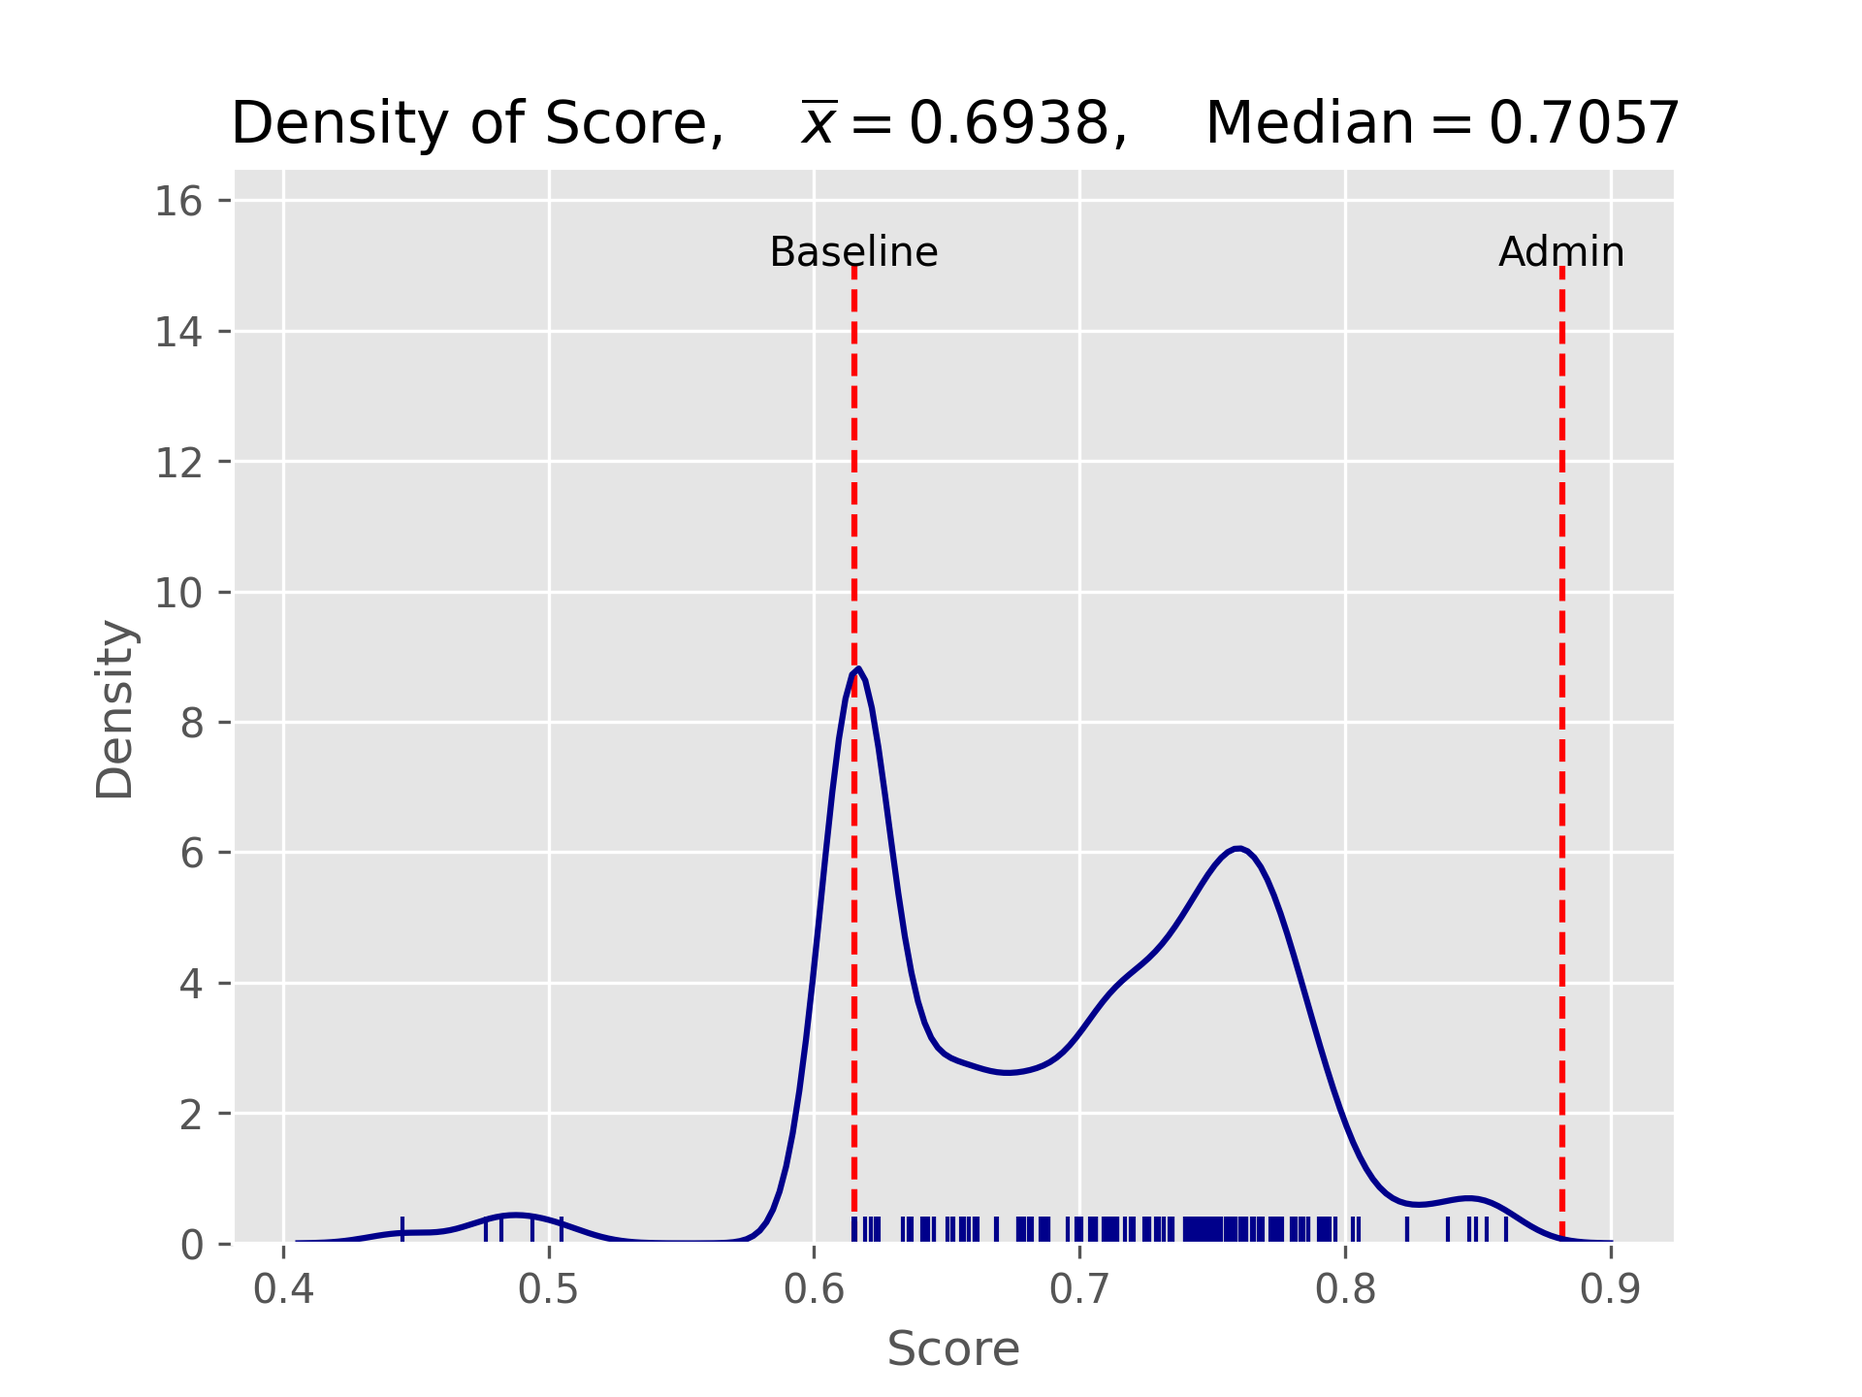
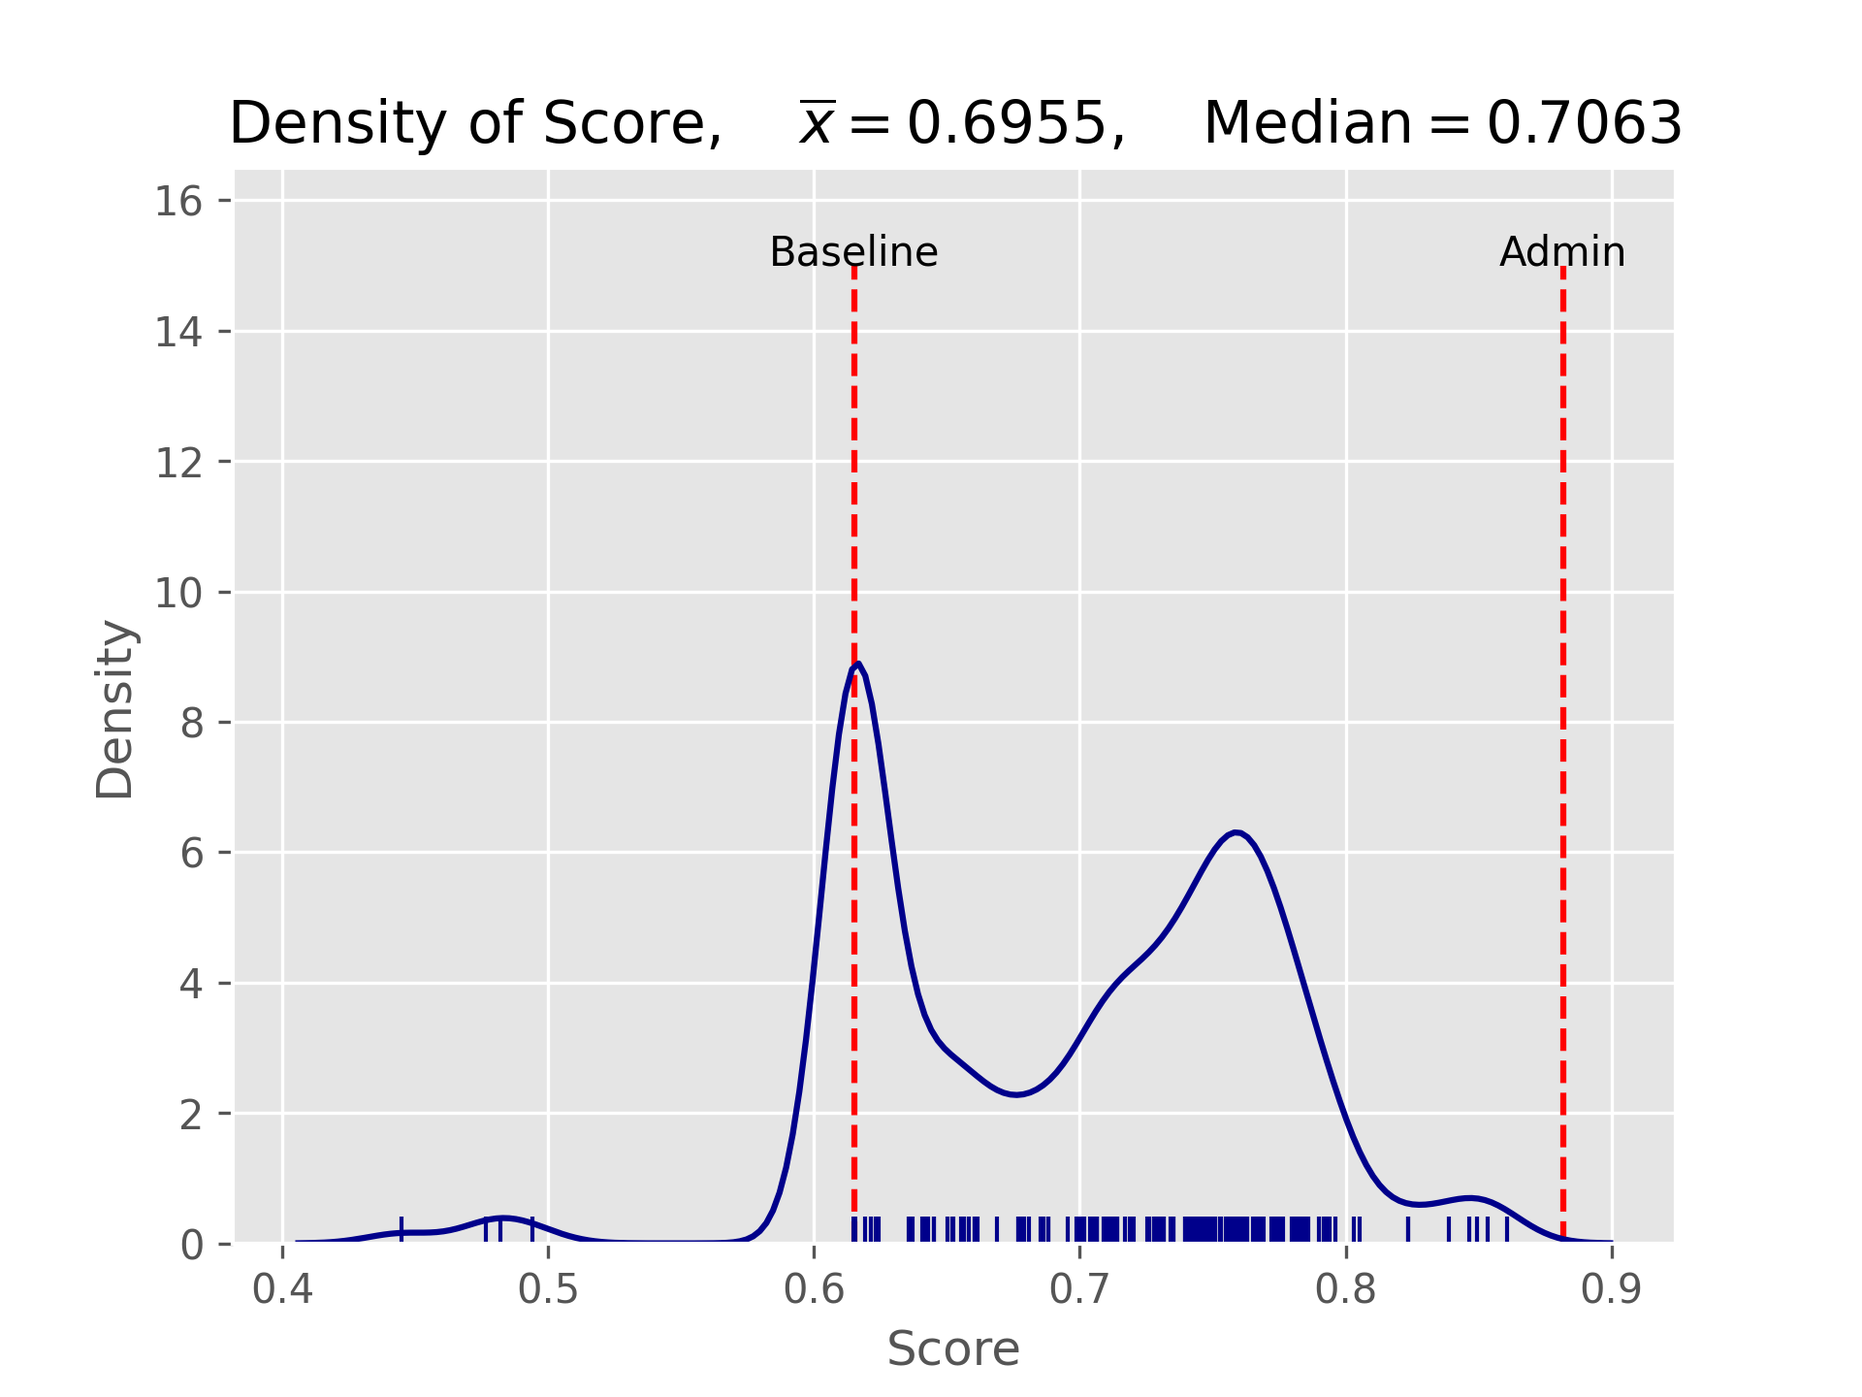
Updated: 2021-05-17 20:33:54

diff --git a/README.md b/README.md
@@ -1,6 +1,6 @@
 # ETC3250 Kaggle score
 
-**Last updated: May 17, 2021 18:21:19**
+**Last updated: May 17, 2021 20:33:54**
 
 ## WARNING: Your final grade is based on your score on the `private leaderboard`. 
 
@@ -22,7 +22,7 @@ Number of teams: 206
 |---|---|---|---|---|---|
 |1|6759412|Davide Signor|17 May 12:40:27|0.86078|13|
 |2|6749482|dzho37|16 May 23:11:41|0.85342|13|
-|3|6754507|Not Admin|17 May 16:18:54|0.84946|13|
+|3|6754507|Not Admin|17 May 19:46:10|0.84946|13|
 |4|6765261|Real Admin @zyan0056|17 May 17:37:52|0.84663|13|
 |5|6767591|carljohnsonCJ|16 May 19:46:00|0.83870|13|
 |6|6754716|efre0004|17 May 02:39:44|0.82342|13|
@@ -34,27 +34,27 @@ Number of teams: 206
 |12|6764575|jngu0046|17 May 17:28:19|0.79286|12|
 |13|6761625|Le-Hao Jian|16 May 22:16:10|0.79230|12|
 |14|6763983|Jpan0029|16 May 22:28:56|0.79173|12|
-|15|6755904|wtan0062|16 May 15:36:18|0.79003|12|
-|16|6750238|zzd|17 May 09:08:14|0.78607|12|
+|15|6750238|zzd|17 May 19:07:22|0.79173|12|
+|16|6755904|wtan0062|17 May 18:36:00|0.79003|12|
 |17|6768738|iamnotaduck|11 May 23:10:49|0.78607|12|
 |18|6760087|ssha0141|14 May 23:54:49|0.78438|12|
 |19|6749317|[Deleted] fcf8662d-9cae-4735-a131-9968aeda505a|09 May 10:43:07|0.78324|12|
-|20|6751555|jwah0003|16 May 21:15:29|0.78155|12|
-|21|6754465|vvoo0004|16 May 10:14:08|0.78098|12|
-|22|6763495|Yongkang Ni|16 May 13:59:43|0.77985|12|
-|23|6749357|pdai0002|17 May 15:18:52|0.77645|12|
-|24|6749592|igup0001|17 May 10:20:27|0.77589|12|
-|25|6776729|Admin3|16 May 13:04:21|0.77532|12|
-|26|6754050|Filippo Gioffre|17 May 12:32:23|0.77475|12|
-|27|6765501|iren0002|16 May 22:37:10|0.77475|12|
-|28|6766607|vietvo51|17 May 02:31:39|0.77419|12|
-|29|6753795|ttra0038|13 May 14:13:17|0.77419|12|
-|30|6767628|Bo Zhang 3520|17 May 00:28:42|0.77362|12|
-|31|6751314|cwei0018|16 May 22:07:49|0.77306|12|
+|20|6751314|cwei0018|17 May 18:31:50|0.78211|12|
+|21|6751555|jwah0003|16 May 21:15:29|0.78155|12|
+|22|6754465|vvoo0004|16 May 10:14:08|0.78098|12|
+|23|6763495|Yongkang Ni|16 May 13:59:43|0.77985|12|
+|24|6749357|pdai0002|17 May 15:18:52|0.77645|12|
+|25|6749592|igup0001|17 May 10:20:27|0.77589|12|
+|26|6776729|Admin3|17 May 19:48:21|0.77532|12|
+|27|6754050|Filippo Gioffre|17 May 12:32:23|0.77475|12|
+|28|6765501|iren0002|16 May 22:37:10|0.77475|12|
+|29|6766607|vietvo51|17 May 02:31:39|0.77419|12|
+|30|6753795|ttra0038|13 May 14:13:17|0.77419|12|
+|31|6767628|Bo Zhang 3520|17 May 00:28:42|0.77362|12|
 |32|6764289|Thomas Pranoto|17 May 01:21:29|0.77192|12|
 |33|6763202|dngu0066|17 May 10:25:46|0.76910|12|
 |34|6759022|claw0008|17 May 17:22:07|0.76853|11|
-|35|6766956|sbat0011|17 May 18:07:31|0.76796|11|
+|35|6766956|sbat0011|17 May 18:36:27|0.76796|11|
 |36|6754493|Po-Yu Huang|16 May 13:21:24|0.76796|11|
 |37|6764152|Pei Ni Lim|16 May 16:26:18|0.76740|11|
 |38|6759088|skhu0008|17 May 15:25:08|0.76740|11|
@@ -69,86 +69,86 @@ Number of teams: 206
 |47|6768276|Alex Chou|17 May 15:34:23|0.76061|11|
 |48|6755448|jwan0296|16 May 18:52:06|0.76061|11|
 |49|6759326|Emily Sheehan|17 May 13:32:11|0.76061|11|
-|50|6749366|xwan0160|16 May 23:33:43|0.75891|11|
-|51|6751334|yzha0275|17 May 12:19:36|0.75834|11|
-|52|6750247|Kevin Tat17|17 May 16:27:17|0.75721|11|
-|53|6749412|Monchy|17 May 13:30:49|0.75721|11|
-|54|6754693|xwan0169|14 May 09:20:24|0.75664|11|
-|55|6758694|nhee0002|16 May 20:21:14|0.75495|11|
-|56|6768666|jham0020|16 May 23:44:06|0.75325|11|
-|57|6750103|heva0001|17 May 16:42:32|0.75268|11|
-|58|6754314|Alexi Tsakis|17 May 13:59:33|0.75099|11|
-|59|6764345|yliu0320|16 May 19:42:52|0.75099|11|
-|60|6750774|yhua0047|15 May 15:45:06|0.74985|11|
-|61|6759731|Daniel Ong|17 May 03:07:00|0.74985|11|
-|62|6758777|Gayani Amali Balasuriya|17 May 12:29:32|0.74872|11|
-|63|6754556|sami0006|16 May 16:22:20|0.74759|11|
-|64|6750485|Zhongxuan Yin|13 May 14:53:31|0.74646|11|
-|65|6760317|Wliu0044|17 May 16:23:56|0.74646|11|
-|66|6765326|ywan0454|12 May 02:49:19|0.74533|11|
-|67|6749461|mkar0012|16 May 14:43:07|0.74476|11|
-|68|6751520|mluk0004|17 May 15:48:40|0.74419|11|
-|69|6783780|mshi0014|17 May 16:54:52|0.74306|11|
-|70|6756740|psap0002|16 May 17:43:14|0.74193|11|
-|71|6755109|Dea Avega Editya|17 May 10:44:40|0.74136|11|
-|72|6760740|qwan0060|15 May 00:05:05|0.74080|11|
-|73|6753832|hmaus1|16 May 20:47:42|0.73967|11|
-|74|6749310|rtia0007|16 May 10:40:06|0.73967|11|
-|75|6761498|qche0022|16 May 23:16:53|0.73514|10|
-|76|6749457|Belgian Pharmacist|17 May 15:26:16|0.73514|10|
-|77|6753638|nper0009|17 May 10:02:16|0.73457|10|
-|78|6750514|wwin0001|14 May 23:41:39|0.73401|10|
-|79|6750992|Qimei Yang|16 May 17:28:56|0.73174|10|
-|80|6750996|Lirui Guo|16 May 17:10:31|0.73174|10|
-|81|6749287|rwon0005|16 May 22:14:18|0.73005|10|
-|82|6767433|ang0004|16 May 10:36:26|0.72948|10|
-|83|6760878|Oblong|14 May 09:53:00|0.72891|10|
-|84|6765541|wtan0001|16 May 15:08:01|0.72608|10|
-|85|6750421|sche0149|16 May 15:36:49|0.72608|10|
-|86|6763455|Ziyue Zhang|17 May 17:45:21|0.72552|10|
-|87|6768117|avon0005|16 May 12:57:45|0.72439|10|
-|88|6753551|dorl0002|17 May 01:10:08|0.72043|10|
-|89|6753813|yzha0633|17 May 10:44:39|0.71986|10|
-|90|6749490|fwan0018|15 May 10:03:02|0.71986|10|
-|91|6754894|dama0007|17 May 10:02:36|0.71929|10|
-|92|6754678|Ronghao Zhang|14 May 11:34:12|0.71703|10|
-|93|6751234|Guy H Davis|14 May 10:57:28|0.71420|10|
-|94|6751598|hfen27|14 May 13:11:44|0.71420|10|
-|95|6749351|jche0254|16 May 23:10:23|0.71307|10|
-|96|6763958|berob5|15 May 18:21:09|0.71194|10|
-|97|6767603|jfer0020|11 May 19:09:43|0.71080|10|
-|98|6767902|wfer0009|16 May 19:33:58|0.71024|10|
-|99|6755522|casco2|15 May 12:16:36|0.71024|10|
-|100|6767378|Arzu Khanna|15 May 17:49:23|0.70911|10|
-|101|6766000|Langtian Cheng|16 May 23:21:37|0.70628|10|
-|102|6762123|Siddhant Tirodkar|17 May 01:26:32|0.70628|10|
-|103|6762269|Priya Dingorkar|17 May 00:20:39|0.70628|10|
-|104|6761828|Ying Zou95|16 May 14:21:41|0.70514|10|
-|105|6760555|zzha0230|16 May 22:41:15|0.70401|10|
-|106|6762592|xyan0048|16 May 17:47:05|0.70062|10|
-|107|6756942|jtho0048|15 May 19:58:12|0.70005|10|
-|108|6762119|Evelyn Budhy Wibowo|15 May 17:22:32|0.69892|10|
-|109|6765299|zyliu16|17 May 00:57:32|0.69552|10|
-|110|6782531|jraw0002|16 May 17:04:01|0.68817|10|
-|111|6760529|maam0001|15 May 18:33:08|0.68817|10|
-|112|6768279|Thomas Winson|16 May 15:41:58|0.68704|10|
-|113|6750607|hngo0005|14 May 15:23:32|0.68647|10|
-|114|6753792|Angelina Atanassova|17 May 12:28:44|0.68534|10|
-|115|6759061|Abin John|16 May 18:23:39|0.68194|10|
-|116|6763905|xliu0026|17 May 15:18:53|0.68081|10|
-|117|6762192|abab0012|17 May 13:27:43|0.67911|10|
-|118|6753670|Tran Thanh Han Ha|09 May 18:38:25|0.67798|10|
-|119|6761343|dgar0010|17 May 12:12:09|0.67741|10|
-|120|6749822|John Yan|13 May 22:09:17|0.67685|9|
-|121|6807769|stupid assignment|17 May 02:08:23|0.67685|9|
-|122|6753817|JiaPeng0106|10 May 13:28:44|0.66893|9|
-|123|6805182|zzy0023|16 May 17:21:26|0.66836|9|
+|50|6805182|zzy0023|17 May 20:31:36|0.76004|11|
+|51|6749366|xwan0160|16 May 23:33:43|0.75891|11|
+|52|6751334|yzha0275|17 May 12:19:36|0.75834|11|
+|53|6750247|Kevin Tat17|17 May 16:27:17|0.75721|11|
+|54|6749412|Monchy|17 May 13:30:49|0.75721|11|
+|55|6754693|xwan0169|14 May 09:20:24|0.75664|11|
+|56|6768279|Thomas Winson|17 May 19:14:22|0.75551|11|
+|57|6758694|nhee0002|16 May 20:21:14|0.75495|11|
+|58|6768666|jham0020|16 May 23:44:06|0.75325|11|
+|59|6750103|heva0001|17 May 16:42:32|0.75268|11|
+|60|6754314|Alexi Tsakis|17 May 20:07:27|0.75099|11|
+|61|6764345|yliu0320|16 May 19:42:52|0.75099|11|
+|62|6750774|yhua0047|15 May 15:45:06|0.74985|11|
+|63|6759731|Daniel Ong|17 May 03:07:00|0.74985|11|
+|64|6758777|Gayani Amali Balasuriya|17 May 12:29:32|0.74872|11|
+|65|6754556|sami0006|16 May 16:22:20|0.74759|11|
+|66|6750485|Zhongxuan Yin|13 May 14:53:31|0.74646|11|
+|67|6760317|Wliu0044|17 May 16:23:56|0.74646|11|
+|68|6765326|ywan0454|12 May 02:49:19|0.74533|11|
+|69|6749461|mkar0012|16 May 14:43:07|0.74476|11|
+|70|6751520|mluk0004|17 May 15:48:40|0.74419|11|
+|71|6783780|mshi0014|17 May 16:54:52|0.74306|11|
+|72|6756740|psap0002|16 May 17:43:14|0.74193|11|
+|73|6755109|Dea Avega Editya|17 May 10:44:40|0.74136|11|
+|74|6760740|qwan0060|15 May 00:05:05|0.74080|11|
+|75|6753832|hmaus1|16 May 20:47:42|0.73967|11|
+|76|6749310|rtia0007|16 May 10:40:06|0.73967|11|
+|77|6761498|qche0022|16 May 23:16:53|0.73514|10|
+|78|6749457|Belgian Pharmacist|17 May 15:26:16|0.73514|10|
+|79|6753638|nper0009|17 May 10:02:16|0.73457|10|
+|80|6750514|wwin0001|14 May 23:41:39|0.73401|10|
+|81|6750992|Qimei Yang|17 May 19:48:53|0.73174|10|
+|82|6750996|Lirui Guo|17 May 19:37:44|0.73174|10|
+|83|6749287|rwon0005|16 May 22:14:18|0.73005|10|
+|84|6767433|ang0004|16 May 10:36:26|0.72948|10|
+|85|6760878|Oblong|14 May 09:53:00|0.72891|10|
+|86|6768117|avon0005|17 May 20:01:26|0.72778|10|
+|87|6765541|wtan0001|16 May 15:08:01|0.72608|10|
+|88|6750421|sche0149|16 May 15:36:49|0.72608|10|
+|89|6763455|Ziyue Zhang|17 May 17:45:21|0.72552|10|
+|90|6753551|dorl0002|17 May 01:10:08|0.72043|10|
+|91|6753813|yzha0633|17 May 10:44:39|0.71986|10|
+|92|6749490|fwan0018|15 May 10:03:02|0.71986|10|
+|93|6754894|dama0007|17 May 10:02:36|0.71929|10|
+|94|6767902|wfer0009|17 May 19:23:16|0.71873|10|
+|95|6754678|Ronghao Zhang|14 May 11:34:12|0.71703|10|
+|96|6751234|Guy H Davis|14 May 10:57:28|0.71420|10|
+|97|6751598|hfen27|14 May 13:11:44|0.71420|10|
+|98|6749351|jche0254|16 May 23:10:23|0.71307|10|
+|99|6763958|berob5|15 May 18:21:09|0.71194|10|
+|100|6767603|jfer0020|11 May 19:09:43|0.71080|10|
+|101|6755522|casco2|15 May 12:16:36|0.71024|10|
+|102|6767378|Arzu Khanna|17 May 18:58:23|0.70911|10|
+|103|6766000|Langtian Cheng|16 May 23:21:37|0.70628|10|
+|104|6762123|Siddhant Tirodkar|17 May 01:26:32|0.70628|10|
+|105|6762269|Priya Dingorkar|17 May 00:20:39|0.70628|10|
+|106|6761828|Ying Zou95|17 May 20:21:31|0.70514|10|
+|107|6760555|zzha0230|16 May 22:41:15|0.70401|10|
+|108|6759061|Abin John|17 May 19:41:57|0.70175|10|
+|109|6762592|xyan0048|16 May 17:47:05|0.70062|10|
+|110|6756942|jtho0048|15 May 19:58:12|0.70005|10|
+|111|6762119|Evelyn Budhy Wibowo|15 May 17:22:32|0.69892|10|
+|112|6765299|zyliu16|17 May 00:57:32|0.69552|10|
+|113|6782531|jraw0002|16 May 17:04:01|0.68817|10|
+|114|6760529|maam0001|15 May 18:33:08|0.68817|10|
+|115|6750607|hngo0005|14 May 15:23:32|0.68647|10|
+|116|6753792|Angelina Atanassova|17 May 12:28:44|0.68534|10|
+|117|6763905|xliu0026|17 May 15:18:53|0.68081|10|
+|118|6762192|abab0012|17 May 13:27:43|0.67911|10|
+|119|6753670|Tran Thanh Han Ha|09 May 18:38:25|0.67798|10|
+|120|6761343|dgar0010|17 May 12:12:09|0.67741|10|
+|121|6749822|John Yan|13 May 22:09:17|0.67685|9|
+|122|6807769|stupid assignment|17 May 18:42:10|0.67685|9|
+|123|6753817|JiaPeng0106|10 May 13:28:44|0.66893|9|
 |124|6758921|Zhijun Li/zlii0231|17 May 14:12:25|0.66157|9|
 |125|6775741|blen0004|13 May 14:26:10|0.66100|8|
 |126|6765060|khyd0001|15 May 21:09:15|0.66044|8|
 |127|6768582|ague0004|17 May 14:17:58|0.66044|8|
 |128|6765741|bwen0003|14 May 01:20:38|0.65817|8|
-|129|6767860|ylii0273|17 May 17:14:59|0.65647|8|
+|129|6767860|ylii0273|17 May 18:51:23|0.65647|8|
 |130|6765463|lwan0125|15 May 23:55:43|0.65647|8|
 |131|6800064|Thuy Tran LINH|15 May 16:13:51|0.65534|<=7|
 |132|6763613|ofon0002|15 May 16:38:24|0.65251|<=7|
@@ -157,71 +157,71 @@ Number of teams: 206
 |135|6764503|Yu Zhou|16 May 00:00:03|0.64516|<=7|
 |136|6766440|Chenjie Gong|17 May 12:51:02|0.64516|<=7|
 |137|6761697|azad0001|17 May 15:15:21|0.64289|<=7|
-|138|6757039|phun0001|14 May 10:23:12|0.64176|<=7|
-|139|6759274|Dwayne Pinto|17 May 15:41:18|0.64119|<=7|
-|140|6765312|mqas0003|15 May 19:30:07|0.64063|<=7|
-|141|6768141|Don_Eggsaladsanga|16 May 22:32:34|0.63667|<=7|
-|142|6760382|jlee0179|16 May 13:31:23|0.63554|<=7|
-|143|6756441|jwij0001|17 May 11:50:17|0.63327|<=7|
-|144|6755591|ltmoo2|16 May 13:20:05|0.62422|<=7|
-|145|6770339|Jonathan Alexandro|16 May 22:50:02|0.62308|<=7|
-|146|6754085|Tomer Fridland|16 May 16:55:49|0.62139|<=7|
-|147|6756086|akha0059|16 May 20:47:01|0.61912|<=7|
-|148|6738627|predictions_2021-05-04.csv|04 May 17:42:25|0.61516|<=7|
-|149|6750168|Ruimin Lin|17 May 17:17:21|0.61516|<=7|
-|150|6750648|[Deleted] a1fcae29-177c-495d-be3e-ecb1d2e418e1|06 May 20:32:47|0.61516|<=7|
-|151|6751310|Cpen0009|16 May 01:16:05|0.61516|<=7|
-|152|6753687|Juliette101|16 May 13:51:41|0.61516|<=7|
-|153|6754262|Namrata Goel|07 May 13:16:59|0.61516|<=7|
-|154|6754439|cyee0011|17 May 12:50:07|0.61516|<=7|
-|155|6754610|dvek0001|17 May 16:49:03|0.61516|<=7|
-|156|6754890|ctin0006|07 May 17:54:53|0.61516|<=7|
-|157|6756637|lqia0006|17 May 03:06:04|0.61516|<=7|
-|158|6758582|Vinny Vu|17 May 13:10:24|0.61516|<=7|
-|159|6758766|hhen0005|08 May 10:49:43|0.61516|<=7|
-|160|6758855|MKitchener_Monash|08 May 11:34:04|0.61516|<=7|
-|161|6759272|Suyue|08 May 13:38:52|0.61516|<=7|
-|162|6759596|monash_jpea0010|08 May 15:43:01|0.61516|<=7|
-|163|6760487|Junze Zeng|08 May 18:39:04|0.61516|<=7|
-|164|6760974|ZipingLeow|13 May 02:51:53|0.61516|<=7|
-|165|6761427|byeo0005|08 May 22:13:26|0.61516|<=7|
-|166|6761422|Wenxuan Gong|08 May 22:16:50|0.61516|<=7|
-|167|6761842|mort0001|08 May 23:53:24|0.61516|<=7|
-|168|6749288|dpha0015|16 May 23:39:15|0.61516|<=7|
-|169|6762642|rals0003|15 May 23:50:53|0.61516|<=7|
-|170|6763027|panagiotis stylianos|09 May 07:03:18|0.61516|<=7|
-|171|6760102|Yuheng Cui|09 May 13:49:20|0.61516|<=7|
-|172|6753957|Matthew Willaton|17 May 11:00:18|0.61516|<=7|
-|173|6764303|fpso0001|17 May 15:27:40|0.61516|<=7|
-|174|6756077|walh0002|16 May 17:38:54|0.61516|<=7|
-|175|6765323|alim0045|09 May 21:35:25|0.61516|<=7|
-|176|6755993|jluu0047|16 May 21:36:25|0.61516|<=7|
-|177|6765399|ymia21|09 May 22:04:28|0.61516|<=7|
-|178|6765339|jgra0012|09 May 22:08:13|0.61516|<=7|
-|179|6766356|shua0076|10 May 01:50:18|0.61516|<=7|
-|180|6766419|Tong Qiu|10 May 02:16:31|0.61516|<=7|
-|181|6766065|jluo0015|17 May 15:55:25|0.61516|<=7|
-|182|6766581|pjiw0001|10 May 03:10:23|0.61516|<=7|
-|183|6749849|ymaa0063|10 May 04:25:13|0.61516|<=7|
-|184|6754254|uwas0001|13 May 09:38:21|0.61516|<=7|
-|185|6765494|bdon0004|10 May 12:31:27|0.61516|<=7|
-|186|6767829|SYJ_King|15 May 23:43:23|0.61516|<=7|
-|187|6768046|asei0003|17 May 16:26:00|0.61516|<=7|
-|188|6768108|jgre0006|10 May 13:53:07|0.61516|<=7|
-|189|6755755|Tze Hin Chang|10 May 14:40:11|0.61516|<=7|
-|190|6768540|bzha0014|11 May 11:02:58|0.61516|<=7|
-|191|6768590|bhua0008|10 May 15:25:13|0.61516|<=7|
-|192|6766670|rlai0004|17 May 03:30:04|0.61516|<=7|
-|193|6768901|blaw0002|11 May 10:45:22|0.61516|<=7|
-|194|6765496|Abhishek Sinha|12 May 23:24:07|0.61516|<=7|
-|195|6768988|emaa0001|10 May 17:02:23|0.61516|<=7|
-|196|6768060|ylok0006|14 May 00:02:26|0.61516|<=7|
-|197|6769593|Shu To Yeung|17 May 13:32:46|0.61516|<=7|
-|198|6749474|Thomas Crowe|15 May 23:35:10|0.61516|<=7|
-|199|6770619|MingKaiToh|15 May 00:00:37|0.61516|<=7|
-|200|6760476|ang0005|16 May 09:50:29|0.61516|<=7|
-|201|6794555|Ketan Kabu|17 May 14:57:14|0.61516|<=7|
-|202|6808040|cnm666|17 May 02:19:42|0.50481|<=7|
+|138|6757039|phun0001|17 May 19:57:51|0.64176|<=7|
+|139|6756441|jwij0001|17 May 18:30:18|0.64119|<=7|
+|140|6759274|Dwayne Pinto|17 May 15:41:18|0.64119|<=7|
+|141|6765312|mqas0003|15 May 19:30:07|0.64063|<=7|
+|142|6808040|cnm666|17 May 18:40:51|0.63723|<=7|
+|143|6768141|Don_Eggsaladsanga|16 May 22:32:34|0.63667|<=7|
+|144|6760382|jlee0179|16 May 13:31:23|0.63554|<=7|
+|145|6755591|ltmoo2|16 May 13:20:05|0.62422|<=7|
+|146|6770339|Jonathan Alexandro|16 May 22:50:02|0.62308|<=7|
+|147|6754085|Tomer Fridland|16 May 16:55:49|0.62139|<=7|
+|148|6756086|akha0059|16 May 20:47:01|0.61912|<=7|
+|149|6738627|predictions_2021-05-04.csv|04 May 17:42:25|0.61516|<=7|
+|150|6750168|Ruimin Lin|17 May 17:17:21|0.61516|<=7|
+|151|6750648|[Deleted] a1fcae29-177c-495d-be3e-ecb1d2e418e1|06 May 20:32:47|0.61516|<=7|
+|152|6751310|Cpen0009|16 May 01:16:05|0.61516|<=7|
+|153|6753687|Juliette101|17 May 19:33:02|0.61516|<=7|
+|154|6754262|Namrata Goel|07 May 13:16:59|0.61516|<=7|
+|155|6754439|cyee0011|17 May 18:35:33|0.61516|<=7|
+|156|6754610|dvek0001|17 May 16:49:03|0.61516|<=7|
+|157|6754890|ctin0006|07 May 17:54:53|0.61516|<=7|
+|158|6756637|lqia0006|17 May 03:06:04|0.61516|<=7|
+|159|6758582|Vinny Vu|17 May 13:10:24|0.61516|<=7|
+|160|6758766|hhen0005|08 May 10:49:43|0.61516|<=7|
+|161|6758855|MKitchener_Monash|08 May 11:34:04|0.61516|<=7|
+|162|6759272|Suyue|08 May 13:38:52|0.61516|<=7|
+|163|6759596|monash_jpea0010|08 May 15:43:01|0.61516|<=7|
+|164|6760487|Junze Zeng|08 May 18:39:04|0.61516|<=7|
+|165|6760974|ZipingLeow|13 May 02:51:53|0.61516|<=7|
+|166|6761427|byeo0005|17 May 18:24:14|0.61516|<=7|
+|167|6761422|Wenxuan Gong|08 May 22:16:50|0.61516|<=7|
+|168|6761842|mort0001|08 May 23:53:24|0.61516|<=7|
+|169|6749288|dpha0015|16 May 23:39:15|0.61516|<=7|
+|170|6762642|rals0003|15 May 23:50:53|0.61516|<=7|
+|171|6763027|panagiotis stylianos|09 May 07:03:18|0.61516|<=7|
+|172|6760102|Yuheng Cui|09 May 13:49:20|0.61516|<=7|
+|173|6753957|Matthew Willaton|17 May 11:00:18|0.61516|<=7|
+|174|6764303|fpso0001|17 May 15:27:40|0.61516|<=7|
+|175|6756077|walh0002|16 May 17:38:54|0.61516|<=7|
+|176|6765323|alim0045|09 May 21:35:25|0.61516|<=7|
+|177|6755993|jluu0047|16 May 21:36:25|0.61516|<=7|
+|178|6765399|ymia21|09 May 22:04:28|0.61516|<=7|
+|179|6765339|jgra0012|09 May 22:08:13|0.61516|<=7|
+|180|6766356|shua0076|10 May 01:50:18|0.61516|<=7|
+|181|6766419|Tong Qiu|10 May 02:16:31|0.61516|<=7|
+|182|6766065|jluo0015|17 May 15:55:25|0.61516|<=7|
+|183|6766581|pjiw0001|10 May 03:10:23|0.61516|<=7|
+|184|6749849|ymaa0063|10 May 04:25:13|0.61516|<=7|
+|185|6754254|uwas0001|13 May 09:38:21|0.61516|<=7|
+|186|6765494|bdon0004|10 May 12:31:27|0.61516|<=7|
+|187|6767829|SYJ_King|15 May 23:43:23|0.61516|<=7|
+|188|6768046|asei0003|17 May 16:26:00|0.61516|<=7|
+|189|6768108|jgre0006|10 May 13:53:07|0.61516|<=7|
+|190|6755755|Tze Hin Chang|10 May 14:40:11|0.61516|<=7|
+|191|6768540|bzha0014|11 May 11:02:58|0.61516|<=7|
+|192|6768590|bhua0008|10 May 15:25:13|0.61516|<=7|
+|193|6766670|rlai0004|17 May 03:30:04|0.61516|<=7|
+|194|6768901|blaw0002|11 May 10:45:22|0.61516|<=7|
+|195|6765496|Abhishek Sinha|12 May 23:24:07|0.61516|<=7|
+|196|6768988|emaa0001|10 May 17:02:23|0.61516|<=7|
+|197|6768060|ylok0006|14 May 00:02:26|0.61516|<=7|
+|198|6769593|Shu To Yeung|17 May 13:32:46|0.61516|<=7|
+|199|6749474|Thomas Crowe|15 May 23:35:10|0.61516|<=7|
+|200|6770619|MingKaiToh|15 May 00:00:37|0.61516|<=7|
+|201|6760476|ang0005|16 May 09:50:29|0.61516|<=7|
+|202|6794555|Ketan Kabu|17 May 14:57:14|0.61516|<=7|
 |203|6753562|Paul Larmuseau|10 May 19:34:02|0.49405|<=7|
 |204|6768979|Jenny|10 May 17:15:47|0.48217|<=7|
 |205|6760243|akha0058|08 May 17:44:11|0.47651|<=7|
